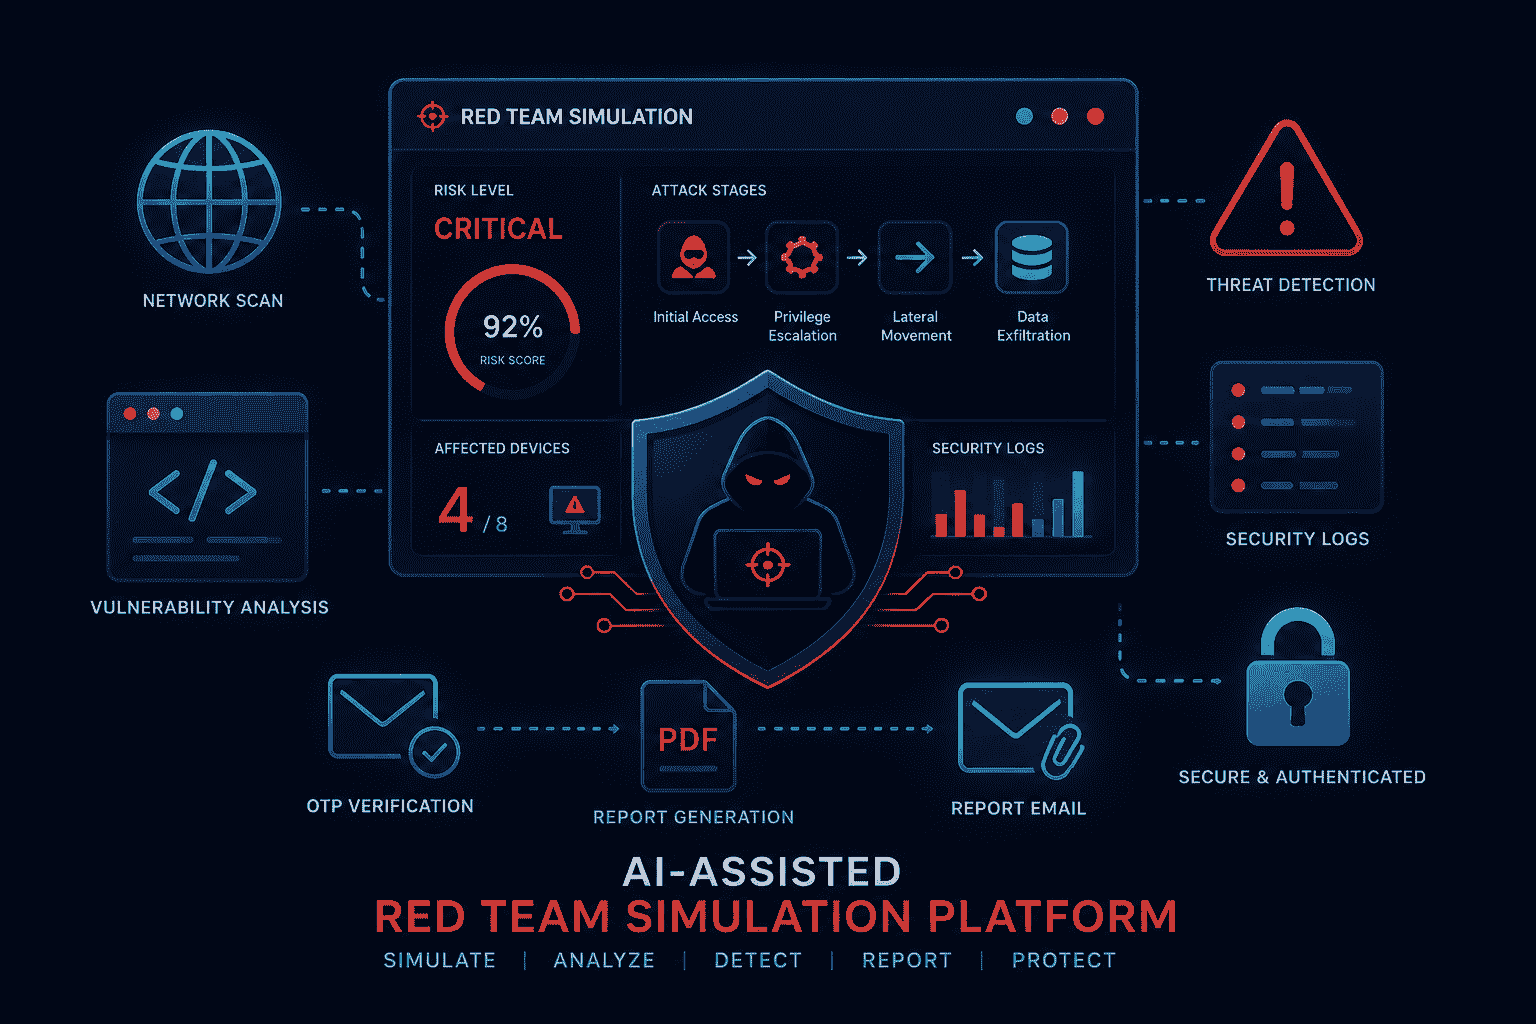
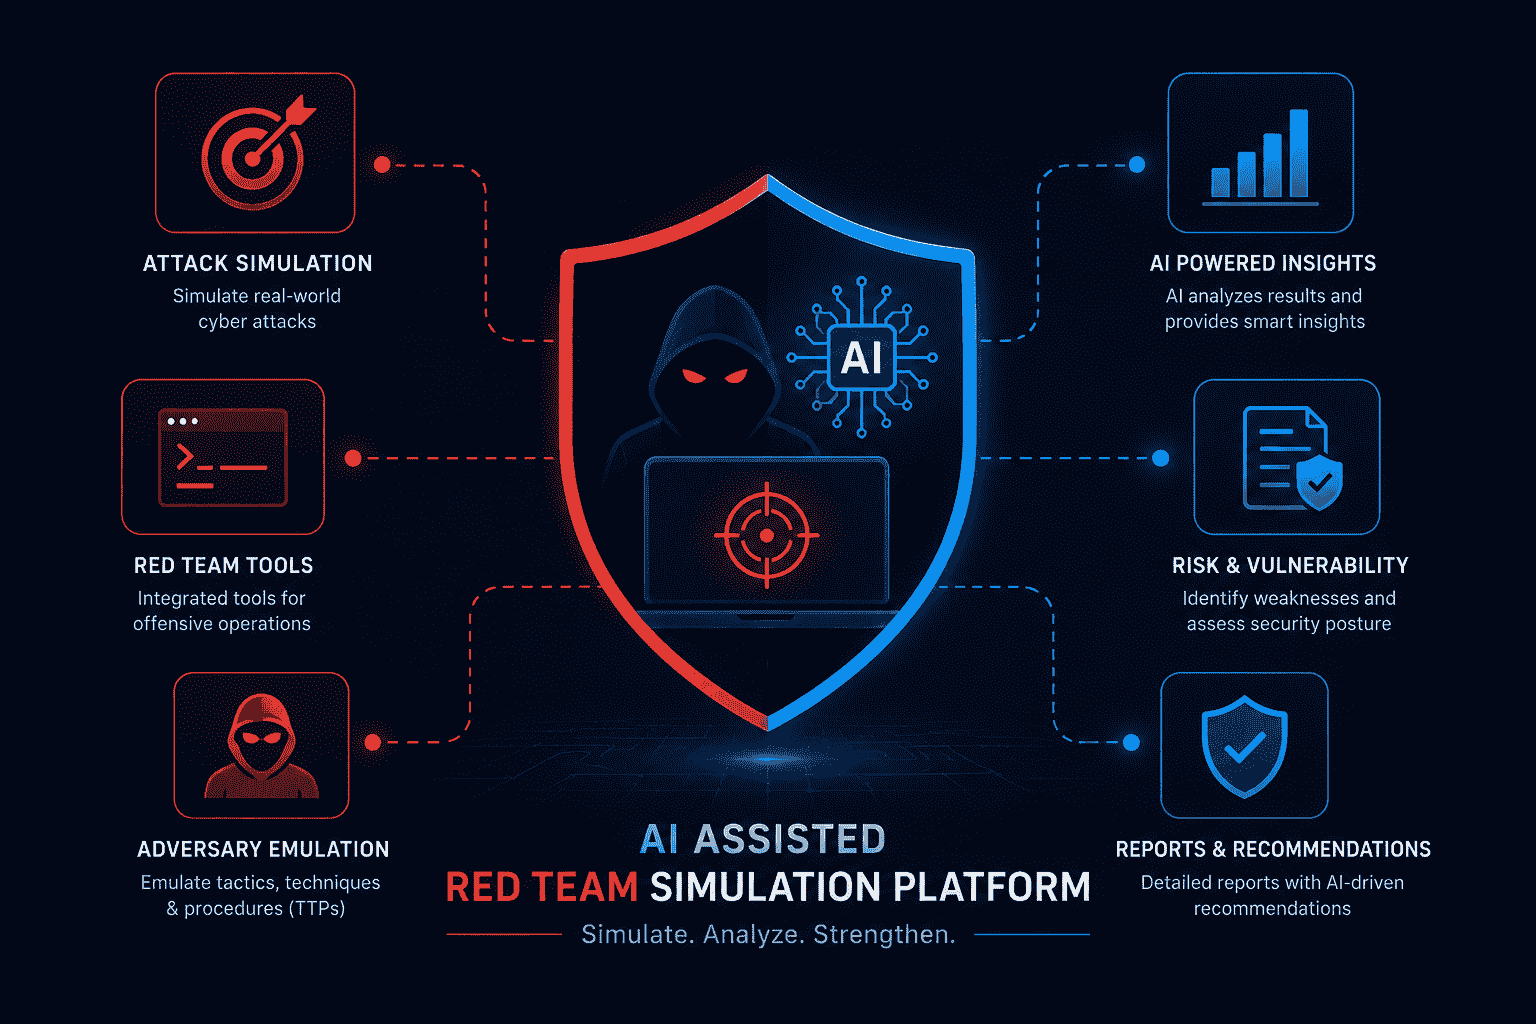
Integrate Cloudinary storage for uploads

Changed region(s): [[0.0625, 0.0625, 0.9375, 0.9688]]

diff --git a/backend/controllers/uploadController.js b/backend/controllers/uploadController.js
@@ -1,84 +1,114 @@
-const path   = require('path');
-const multer = require('multer');
-const fs     = require('fs');
+const path = require("path");
+const multer = require("multer");
+const cloudinary = require("../config/cloudinary");
 
-// ── Storage configuration ───────────────────────────────────────────────────
+const { CloudinaryStorage } = require("multer-storage-cloudinary");
 
-const storage = multer.diskStorage({
-  destination: (req, file, cb) => {
-    const uploadDir = path.join(__dirname, '..', 'uploads');
-    if (!fs.existsSync(uploadDir)) fs.mkdirSync(uploadDir, { recursive: true });
-    cb(null, uploadDir);
-  },
-  filename: (req, file, cb) => {
-    const prefix = req.query.type || 'file'; // profile | project | certificate | resume
-    const ext    = path.extname(file.originalname).toLowerCase();
-    cb(null, `${prefix}-${Date.now()}${ext}`);
+// ---------------- Cloudinary Storage ----------------
+
+const storage = new CloudinaryStorage({
+  cloudinary,
+  params: async (req, file) => {
+    const type = req.query.type || "file";
+
+    return {
+      folder: `portfolio/${type}`,
+      resource_type: "auto",
+      public_id: `${type}-${Date.now()}`,
+    };
   },
 });
 
-// ── File filters ────────────────────────────────────────────────────────────
+// ---------------- File Filters ----------------
 
 const imageFilter = (req, file, cb) => {
-  const allowed = ['.jpg', '.jpeg', '.png', '.gif', '.webp'];
-  const ext     = path.extname(file.originalname).toLowerCase();
+  const allowed = [".jpg", ".jpeg", ".png", ".gif", ".webp"];
+  const ext = path.extname(file.originalname).toLowerCase();
+
   if (allowed.includes(ext)) return cb(null, true);
-  cb(new Error('Only image files are allowed (jpg, jpeg, png, gif, webp).'));
+
+  cb(new Error("Only image files are allowed."));
 };
 
 const resumeFilter = (req, file, cb) => {
   const ext = path.extname(file.originalname).toLowerCase();
-  if (ext === '.pdf') return cb(null, true);
-  cb(new Error('Only PDF files are allowed for resume.'));
+
+  if (ext === ".pdf") return cb(null, true);
+
+  cb(new Error("Only PDF files are allowed."));
 };
 
-// ── Multer instances ─────────────────────────────────────────────────────────
+// ---------------- Multer ----------------
 
 const uploadImage = multer({
   storage,
-  limits:     { fileSize: 5 * 1024 * 1024 },  // 5 MB
+  limits: {
+    fileSize: 5 * 1024 * 1024,
+  },
   fileFilter: imageFilter,
 });
 
 const uploadResume = multer({
   storage,
-  limits:     { fileSize: 10 * 1024 * 1024 }, // 10 MB
+  limits: {
+    fileSize: 10 * 1024 * 1024,
+  },
   fileFilter: resumeFilter,
 });
 
-// ── Controller functions ─────────────────────────────────────────────────────
+// ---------------- Controllers ----------------
 
-// POST /api/upload/image  (protected)
-// BUG FIX: Removed req.uploadType mutation — filename now reads from req.query.type directly.
-// This avoids a race condition where multer reads the filename before uploadType was set.
-const handleImageUpload = (req, res, next) => {
-  uploadImage.single('image')(req, res, (err) => {
+const handleImageUpload = (req, res) => {
+  uploadImage.single("image")(req, res, (err) => {
     if (err) {
-      // Return a proper JSON error (not HTML multer default)
-      return res.status(400).json({ success: false, message: err.message });
-    }
-    if (!req.file) {
-      return res.status(400).json({ success: false, message: 'No file uploaded. Make sure the field name is "image".' });
+      return res.status(400).json({
+        success: false,
+        message: err.message,
+      });
     }
 
-    const fileUrl = `${process.env.BACKEND_URL}/uploads/${req.file.filename}`;
-    res.json({ success: true, message: 'Image uploaded.', url: fileUrl, filename: req.file.filename });
+    if (!req.file) {
+      return res.status(400).json({
+        success: false,
+        message: "No image uploaded.",
+      });
+    }
+
+    res.json({
+      success: true,
+      message: "Image uploaded.",
+      url: req.file.path,
+      filename: req.file.filename,
+    });
   });
 };
 
-// POST /api/upload/resume  (protected)
-const handleResumeUpload = (req, res, next) => {
-  uploadResume.single('resume')(req, res, (err) => {
+const handleResumeUpload = (req, res) => {
+  uploadResume.single("resume")(req, res, (err) => {
     if (err) {
-      return res.status(400).json({ success: false, message: err.message });
-    }
-    if (!req.file) {
-      return res.status(400).json({ success: false, message: 'No file uploaded. Make sure the field name is "resume".' });
+      return res.status(400).json({
+        success: false,
+        message: err.message,
+      });
     }
 
-    const fileUrl = `${process.env.BACKEND_URL}/uploads/${req.file.filename}`;
-    res.json({ success: true, message: 'Resume uploaded.', url: fileUrl, filename: req.file.filename });
+    if (!req.file) {
+      return res.status(400).json({
+        success: false,
+        message: "No resume uploaded.",
+      });
+    }
+
+    res.json({
+      success: true,
+      message: "Resume uploaded.",
+      url: req.file.path,
+      filename: req.file.filename,
+    });
   });
 };
 
-module.exports = { handleImageUpload, handleResumeUpload };
+module.exports = {
+  handleImageUpload,
+  handleResumeUpload,
+};

diff --git a/backend/config/cloudinary.js b/backend/config/cloudinary.js
@@ -1,0 +1,9 @@
+const { v2: cloudinary } = require("cloudinary");
+
+cloudinary.config({
+  cloud_name: process.env.CLOUDINARY_CLOUD_NAME,
+  api_key: process.env.CLOUDINARY_API_KEY,
+  api_secret: process.env.CLOUDINARY_API_SECRET,
+});
+
+module.exports = cloudinary;